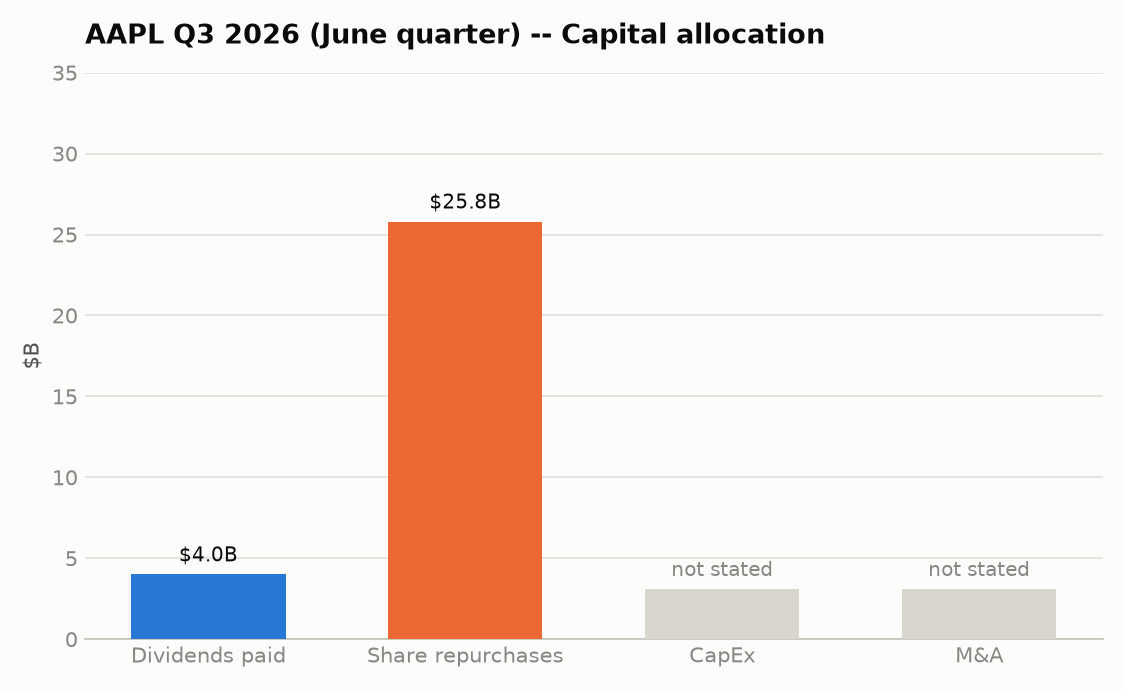
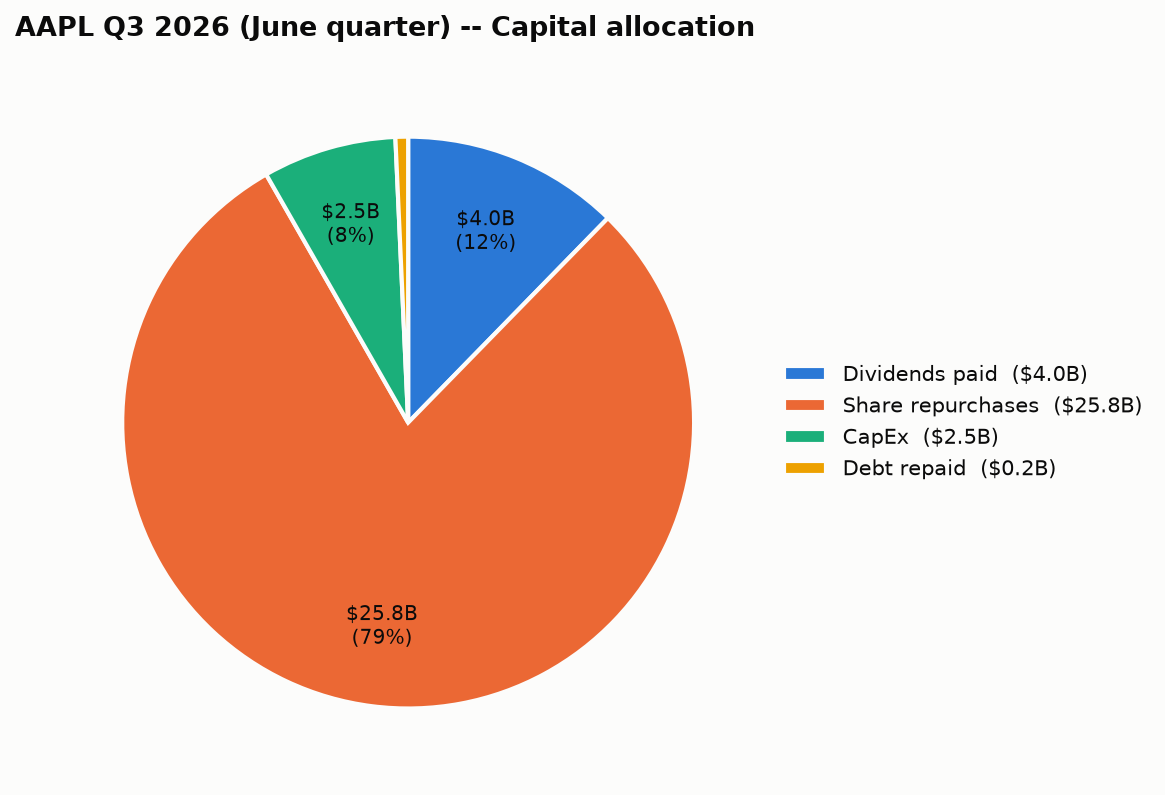
Auto-commit: 6 file(s) changed (charts.py, sample_AAPL_Q3_2026_balance.png, sample_AAPL_Q3_2026_capital.png +3 more)

diff --git a/charts.py b/charts.py
@@ -1,11 +1,14 @@
 """
 charts.py
-Chart rendering for the quarterly summary template (docs/summary_template.md): the five
-chart-bearing sections -- headline scoreboard, business segments, margin trend, capital
-allocation, balance sheet snapshot. Pure rendering layer: every function takes already-curated
-numbers, not raw facts.json -- matching a transcript sentence to the right segment/metric is a
-separate, not-yet-built problem (see the template doc's "Open engineering work"); these functions
-assume that matching has already happened, by hand or otherwise.
+Chart rendering for the quarterly summary template (docs/summary_template.md): the four
+chart-bearing sections -- headline scoreboard, business segments, capital allocation, balance
+sheet snapshot. (Margin trend was cut as its own chart 2026-09-22 -- too thin on 1-2 real
+quarterly points to be worth a dedicated section; a margin move is explained in prose wherever
+it's actually driven by something, e.g. a segment mix shift.) Pure rendering layer: every
+function takes already-curated numbers, not raw facts.json -- matching a transcript sentence to
+the right segment/metric is a separate, not-yet-built problem (see the template doc's "Open
+engineering work"); these functions assume that matching has already happened, by hand or
+otherwise.
 
 Palette, color jobs (categorical/status), and mark conventions follow the dataviz skill's
 validated default (OKLCH-checked for colorblind separation -- see its references/palette.md);
@@ -33,7 +36,6 @@ from pathlib import Path
 import matplotlib
 matplotlib.use("Agg")
 import matplotlib.pyplot as plt
-import matplotlib.ticker as mticker
 
 ROOT = Path(__file__).resolve().parent
 DOCS = ROOT / "docs"
@@ -83,7 +85,9 @@ def _save(fig, out_path: Path) -> Path:
     out_path = Path(out_path)
     out_path.parent.mkdir(parents=True, exist_ok=True)
     fig.tight_layout()
-    fig.savefig(out_path, facecolor=fig.get_facecolor())
+    # bbox_inches="tight" (not just fig.tight_layout()) so legends/titles placed outside the axes
+    # box -- e.g. the capital-allocation pie's legend via bbox_to_anchor -- never clip at the edge
+    fig.savefig(out_path, facecolor=fig.get_facecolor(), bbox_inches="tight")
     plt.close(fig)
     return out_path
 
@@ -144,70 +148,40 @@ def segment_revenue_chart(segments: list[dict], title: str, out_path: Path) -> P
 
 
 # --------------------------------------------------------------------------- #
-# 3. margin trend -- single series, categorical slot 1, direct end-label (no legend needed)
+# 3. capital allocation -- true nominal categories, fixed categorical order, pie + legend.
+# M&A is deliberately never a slice here (see summary_template.md) -- it belongs in the capital
+# allocation TEXT as a callout when the call discusses one, not charted as a cash outflow unless
+# SEC has actually filed a real acquisitions cash-flow figure for the period.
 # --------------------------------------------------------------------------- #
 
-def margin_trend_chart(points: list[tuple[str, float]], title: str, out_path: Path) -> Path:
-    """points: [("March 2026", 49.3), ("June 2026", 50.1), ...], oldest first."""
-    fig, ax = _new_fig(figsize=(7, 4.2))
-    labels = [p[0] for p in points]
-    values = [p[1] for p in points]
-    ax.plot(labels, values, color=CATEGORICAL[0], linewidth=2, marker="o",
-            markersize=8, markerfacecolor=CATEGORICAL[0], markeredgecolor=SURFACE,
-            markeredgewidth=2, zorder=3)
-    ax.text(len(labels) - 1, values[-1], f"  {values[-1]:.1f}%", va="center", ha="left",
-            fontsize=11, color=INK_PRIMARY, fontweight="bold")
-    span = max(values) - min(values) or 1.0
-    ax.set_ylim(min(values) - span * 0.6, max(values) + span * 0.6)
-    ax.set_ylabel("Gross margin (%)", fontsize=10, color=INK_SECONDARY)
-    _style_ax(ax)
-    ax.yaxis.set_major_locator(mticker.MaxNLocator(nbins=5))
-    ax.set_yticks(ax.get_yticks())
-    # a tight span (e.g. two quarters 0.8pp apart) needs 1 decimal or every tick rounds to the
-    # same integer label -- pick decimals from the actual tick spacing instead of hardcoding one
-    step = ax.get_yticks()[1] - ax.get_yticks()[0] if len(ax.get_yticks()) > 1 else 1.0
-    decimals = 0 if step >= 1 else 1
-    ax.set_yticklabels([f"{t:.{decimals}f}%" for t in ax.get_yticks()])
-    ax.tick_params(axis="x", labelsize=10, colors=INK_PRIMARY)
-    _title(ax, title)
-    if len(points) < 3:
-        ax.text(0.5, -0.22, f"only {len(points)} real data points on file -- too thin to call a "
-                             f"trend yet", transform=ax.transAxes, ha="center", fontsize=8.5,
-                color=INK_MUTED, style="italic")
-    return _save(fig, out_path)
-
-
-# --------------------------------------------------------------------------- #
-# 4. capital allocation -- true nominal categories, fixed categorical order, legend
-# --------------------------------------------------------------------------- #
-
-def capital_allocation_chart(uses: dict[str, float | None], title: str, out_path: Path) -> Path:
-    """uses: {"Dividends paid": 4.0, "Share repurchases": 25.8, "CapEx": None, "M&A": None} --
-    a None value is rendered as a labeled "not stated" bar, never guessed or omitted silently."""
-    fig, ax = _new_fig(figsize=(7.5, 4.6))
+def capital_allocation_chart(uses: dict[str, float], title: str, out_path: Path) -> Path:
+    """uses: {"Dividends paid": 4.0, "Share repurchases": 25.8, "CapEx": 2.455, "Debt repaid": 0.232} --
+    every value here must be real (SEC-filed or transcript-stated); a use with no real figure for
+    this period is simply left out of the dict, never included as a zero or a guess."""
+    fig, ax = _new_fig(figsize=(8, 5.4))
+    ax.axis("off")
     names = list(uses.keys())
-    known = [v for v in uses.values() if v is not None]
-    top = max(known) if known else 1.0
-    for i, (name, val) in enumerate(uses.items()):
-        color = CATEGORICAL[i % len(CATEGORICAL)] if val is not None else STATUS_MISSING
-        height = val if val is not None else top * 0.12
-        bar = ax.bar(i, height, color=color, width=0.6, zorder=3)[0]
-        label = f"${val:.1f}B" if val is not None else "not stated"
-        ax.text(i, height + top * 0.02, label, ha="center", va="bottom", fontsize=9.5,
-                color=INK_PRIMARY if val is not None else INK_MUTED)
-    ax.set_xticks(range(len(names)))
-    ax.set_xticklabels(names, fontsize=10, color=INK_PRIMARY)
-    ax.set_ylim(0, top * 1.25)
-    ax.set_ylabel("$B", fontsize=10, color=INK_SECONDARY)
-    _style_ax(ax)
-    ax.set_yticks(ax.get_yticks())
-    ax.set_yticklabels([f"{int(t)}" for t in ax.get_yticks()])
-    _title(ax, title)
+    values = list(uses.values())
+    colors = [CATEGORICAL[i % len(CATEGORICAL)] for i in range(len(names))]
+    total = sum(values) or 1.0
+
+    def _pct_label(pct):
+        return f"${pct / 100 * total:.1f}B\n({pct:.0f}%)" if pct >= 4 else ""   # skip labels too small to fit
+
+    wedges, _, autotexts = ax.pie(
+        values, colors=colors, autopct=_pct_label, pctdistance=0.72, startangle=90,
+        counterclock=False, wedgeprops={"linewidth": 2, "edgecolor": SURFACE},
+        textprops={"fontsize": 9.5, "color": INK_PRIMARY, "ha": "center"})
+    legend_labels = [f"{n}  (${v:.1f}B)" for n, v in zip(names, values)]
+    ax.legend(wedges, legend_labels, loc="center left", bbox_to_anchor=(1.0, 0.5),
+             frameon=False, fontsize=10, labelcolor=INK_PRIMARY)
+    ax.set_title(title, fontsize=13, color=INK_PRIMARY, loc="left", pad=14, fontweight="bold",
+                x=-0.05)
     return _save(fig, out_path)
 
 
 # --------------------------------------------------------------------------- #
-# 5. balance sheet snapshot -- cash/debt are neutral categories; net position is status-colored
+# 4. balance sheet snapshot -- cash/debt are neutral categories; net position is status-colored
 # --------------------------------------------------------------------------- #
 
 def balance_sheet_chart(cash_b: float, debt_b: float, net_b: float, title: str,
@@ -257,13 +231,8 @@ def _demo() -> None:
         "AAPL Q3 2026 (June quarter) -- Revenue by segment",
         DOCS / "sample_AAPL_Q3_2026_segments.png")
 
-    margin_trend_chart(
-        [("March 2026", 49.3), ("June 2026", 50.1)],
-        "AAPL -- Gross margin trend",
-        DOCS / "sample_AAPL_Q3_2026_margin.png")
-
     capital_allocation_chart(
-        {"Dividends paid": 4.0, "Share repurchases": 25.8, "CapEx": None, "M&A": None},
+        {"Dividends paid": 4.0, "Share repurchases": 25.8, "CapEx": 2.455, "Debt repaid": 0.232},
         "AAPL Q3 2026 (June quarter) -- Capital allocation",
         DOCS / "sample_AAPL_Q3_2026_capital.png")
 
@@ -272,7 +241,7 @@ def _demo() -> None:
         "AAPL Q3 2026 (June quarter) -- Balance sheet snapshot",
         DOCS / "sample_AAPL_Q3_2026_balance.png")
 
-    print(f"Wrote 5 charts to {DOCS}")
+    print(f"Wrote 4 charts to {DOCS}")
 
 
 def main() -> int:
